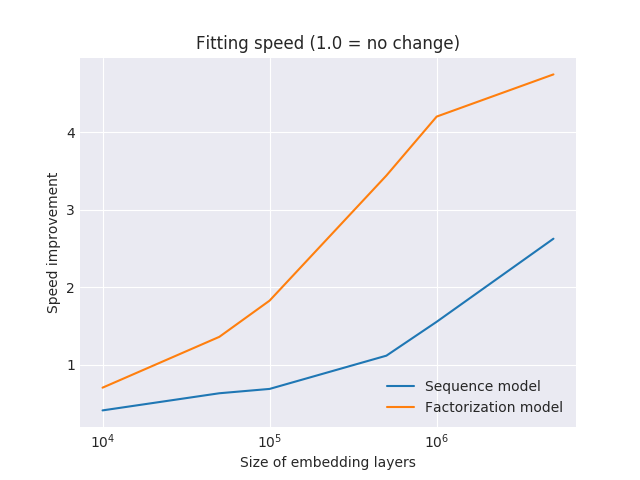
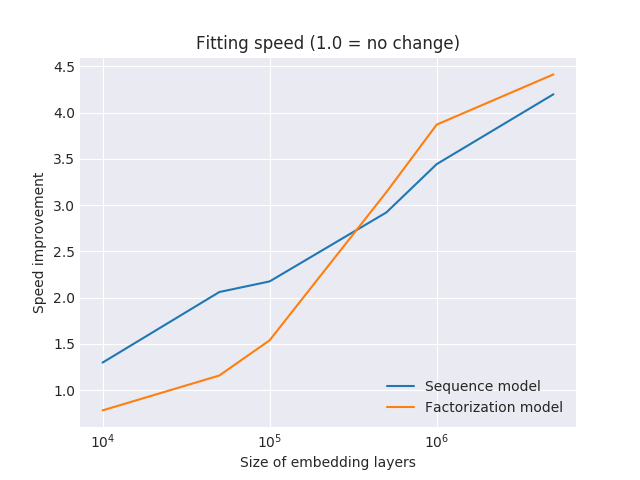
Fix up example.

diff --git a/examples/bloom_embeddings/example.py b/examples/bloom_embeddings/example.py
@@ -136,7 +136,7 @@ def evaluate_model(hyperparameters, train, test, validation, random_state):
     if h['compression_ratio'] < 1.0:
         item_embeddings = BloomEmbedding(train.num_items, h['embedding_dim'],
                                          compression_ratio=h['compression_ratio'],
-                                         num_hash_functions=2)
+                                         num_hash_functions=4)
         network = LSTMNet(train.num_items, h['embedding_dim'],
                           item_embedding_layer=item_embeddings)
     else:
@@ -173,21 +173,21 @@ def run(dataset, train, test, validation, random_state):
         print('Best result: {}'.format(results.best()))
 
     # Find a good baseline
-    # for hyperparameters in sample_hyperparameters(random_state, NUM_SAMPLES):
+    for hyperparameters in sample_hyperparameters(random_state, NUM_SAMPLES):
 
-    #     print('Fitting {}'.format(hyperparameters))
+        print('Fitting {}'.format(hyperparameters))
 
-    #     hyperparameters['compression_ratio'] = 1.0
-    #     (test_mrr, val_mrr, elapsed) = evaluate_model(hyperparameters,
-    #                                                   train,
-    #                                                   test,
-    #                                                   validation,
-    #                                                   random_state)
-    #     print('Test MRR {} val MRR {} elapsed {}'.format(
-    #         test_mrr.mean(), val_mrr.mean(), elapsed
-    #     ))
+        hyperparameters['compression_ratio'] = 1.0
+        (test_mrr, val_mrr, elapsed) = evaluate_model(hyperparameters,
+                                                      train,
+                                                      test,
+                                                      validation,
+                                                      random_state)
+        print('Test MRR {} val MRR {} elapsed {}'.format(
+            test_mrr.mean(), val_mrr.mean(), elapsed
+        ))
 
-    #     results.save(hyperparameters, test_mrr.mean(), val_mrr.mean(), elapsed)
+        results.save(hyperparameters, test_mrr.mean(), val_mrr.mean(), elapsed)
 
     best_baseline = results.best_baseline()
     print('Best baseline: {}'.format(best_baseline))
@@ -200,8 +200,8 @@ def run(dataset, train, test, validation, random_state):
         hyperparameters['compression_ratio'] = compression_ratio
         hyperparameters['compression_ratio'] = 1.0
 
-        # if hyperparameters in results:
-        # continue
+        if hyperparameters in results:
+            continue
 
         print('Evaluating {}'.format(hyperparameters))
 
@@ -214,7 +214,7 @@ def run(dataset, train, test, validation, random_state):
             test_mrr.mean(), val_mrr.mean(), elapsed
         ))
 
-        # results.save(hyperparameters, test_mrr.mean(), val_mrr.mean(), elapsed)
+        results.save(hyperparameters, test_mrr.mean(), val_mrr.mean(), elapsed)
 
     return results
 

diff --git a/examples/bloom_embeddings/performance.py b/examples/bloom_embeddings/performance.py
@@ -15,12 +15,10 @@ from spotlight.sequence.representations import PoolNet
 from spotlight.datasets.movielens import get_movielens_dataset
 
 
-COMPRESSION_RATIO = 0.4
-HASH_FUNCTIONS = 3
 CUDA = torch.cuda.is_available()
 
 
-def time_fitting(model, data, repetitions=3):
+def time_fitting(model, data, repetitions=2):
 
     start_time = time.time()
 
@@ -47,9 +45,9 @@ def factorization_model(num_embeddings, bloom):
                           item_embedding_layer=item_embeddings)
 
     model = ImplicitFactorizationModel(loss='bpr',
-                                       n_iter=1,
+                                       n_iter=10,
                                        embedding_dim=32,
-                                       batch_size=1024,
+                                       batch_size=2048,
                                        learning_rate=1e-2,
                                        l2=1e-6,
                                        representation=network,
@@ -69,7 +67,7 @@ def sequence_model(num_embeddings, bloom):
                       item_embedding_layer=item_embeddings)
 
     model = ImplicitSequenceModel(loss='bpr',
-                                  n_iter=2,
+                                  n_iter=10,
                                   batch_size=32,
                                   learning_rate=1e-2,
                                   l2=1e-6,

diff --git a/spotlight/layers.py b/spotlight/layers.py
@@ -114,7 +114,7 @@ class BloomEmbedding(nn.Module):
 
     def __init__(self, num_embeddings, embedding_dim,
                  compression_ratio=0.2,
-                 num_hash_functions=2,
+                 num_hash_functions=4,
                  padding_idx=0):
 
         super(BloomEmbedding, self).__init__()
